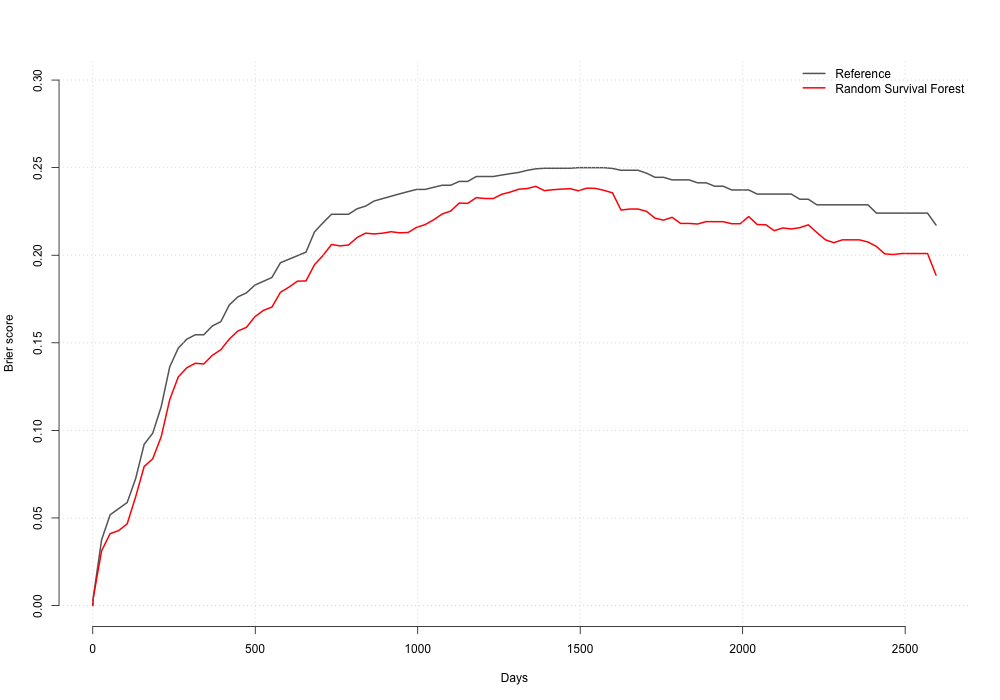
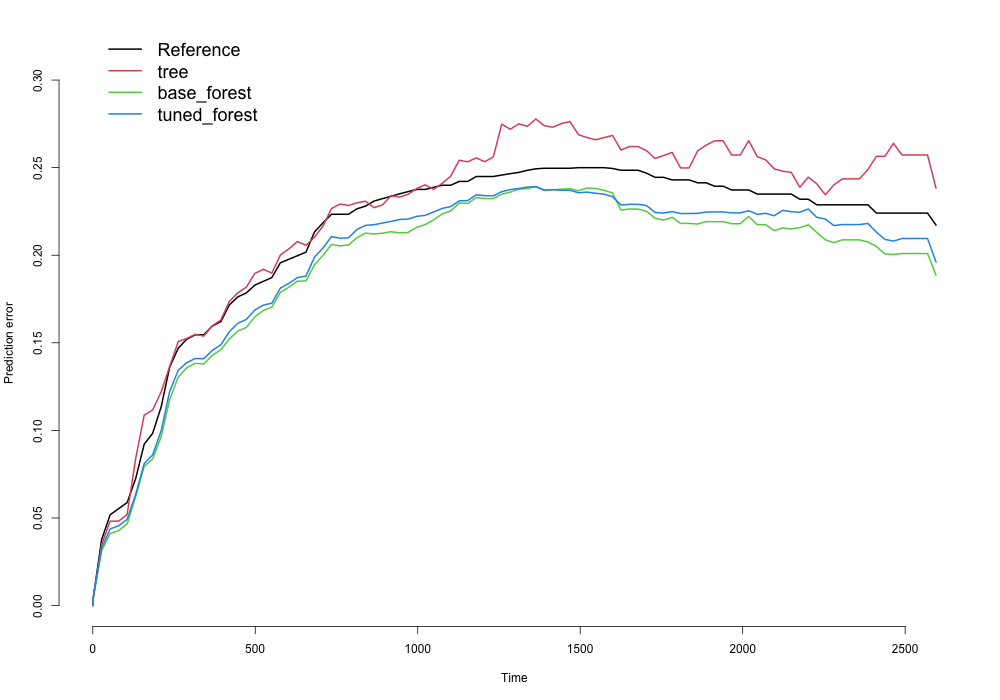
Final changes

diff --git a/README.md b/README.md
@@ -123,10 +123,3 @@ Evaluation uses:
 
 - Concordance index
 - Graf score
-
-## Notes
-
-This repository is mainly educational. The custom `survTree()` implementation is
-intended to make the construction of survival trees transparent; for production
-analysis, prefer maintained packages such as `partykit`, `randomForestSRC` or
-the `mlr3proba` ecosystem.